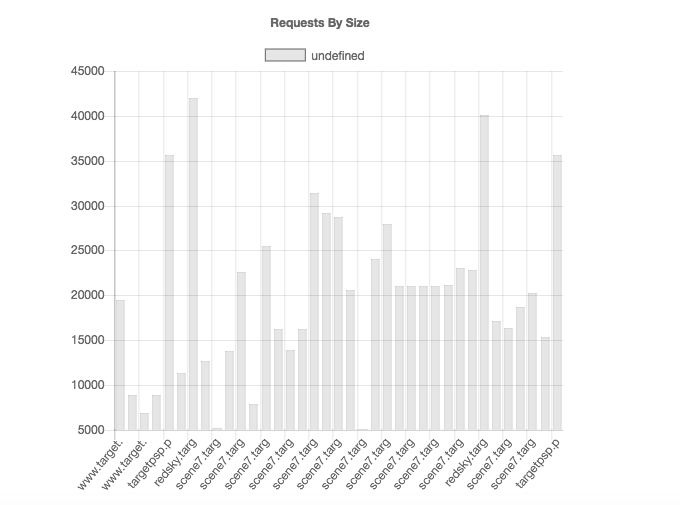
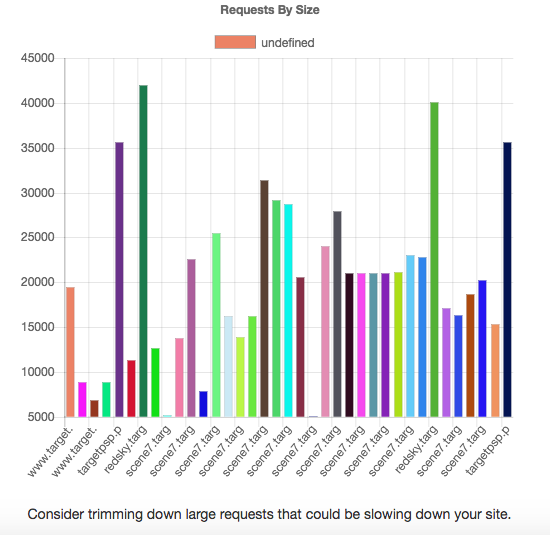
Adding random colors to bar graph

Changed region(s): [[0.0309, 0.0891, 0.9582, 0.9802], [0.3709, 0.0, 0.5873, 0.1485]]

diff --git a/model.py b/model.py
@@ -116,6 +116,6 @@ class Harmony(object):
                 print entry.response.body_size
                 data["labels"].append(entry.request.url[7:18])
                 data["datasets"][0]["data"].append(entry.response.body_size)
+                data["datasets"][0]["backgroundColor"].append(generate_random_color())
         print data
         return data
-
